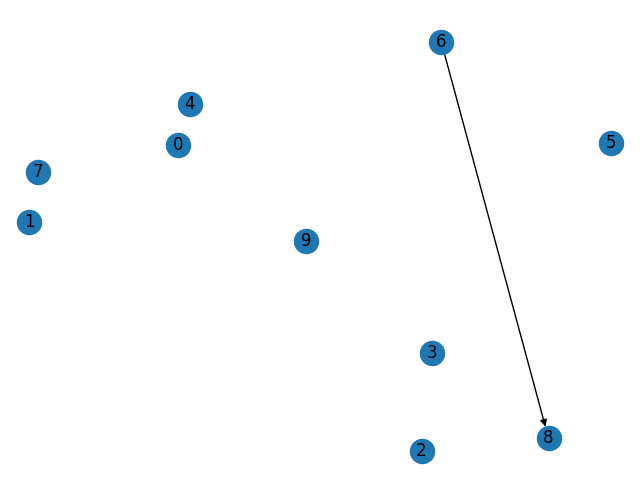
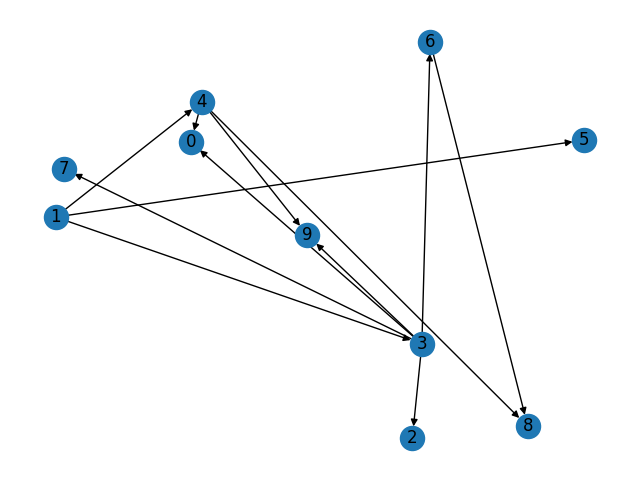
dijkstra added

diff --git a/GraphReader.py b/GraphReader.py
@@ -6,6 +6,83 @@ import sys
 from networkx.algorithms.cluster import average_clustering
 from networkx.classes.graph import Graph
 
+from collections import defaultdict
+ 
+class DijkstraGraph:
+    def __init__(self):
+        self.printArr = list()
+
+    def minDistance(self,dist,queue):
+        minimum = float("Inf")
+        min_index = -1
+         
+        for i in range(len(dist)):
+            if dist[i] < minimum and i in queue:
+                minimum = dist[i]
+                min_index = i
+        return min_index
+ 
+    def printPath(self, parent, j):
+         
+        if parent[j] == -1 :
+            self.printArr.append(j)
+            # print(j)
+            return
+        self.printPath(parent , parent[j])
+        self.printArr.append(j)
+        # print(j)
+         
+    def printSolution(self, dist, parent):
+        dijkstraNXG = nx.DiGraph()
+        temp_pos = nx.get_node_attributes(DG, 'pos')
+        for i in range(verts):
+            dijkstraNXG.add_node(i, pos = temp_pos)
+
+        src = starting
+        # print("Vertex \t\tDistance from Source\tPath")
+        for i in range(0, len(dist)):
+            if i != src:
+                # print("\n%d --> %d \t\t%f \t\t\t\t\t" % (src, i, dist[i]/10000000)),
+                self.printArr = list()
+                self.printPath(parent,i)
+
+                # self.printArr.reverse()
+                for j in range(1, len(self.printArr)):
+                    if not dijkstraNXG.has_edge(self.printArr[j-1], self.printArr[j]):
+                        dijkstraNXG.add_edge(self.printArr[j-1], self.printArr[j], weight = digraphMat[ self.printArr[j-1] ][ self.printArr[j] ]/10000000)
+
+        nx.draw(dijkstraNXG, temp_pos, with_labels=True)
+        plt.savefig("DijkstraGraph.png")
+        plt.close()
+
+    def dijkstra(self, graph, src):
+ 
+        row = len(graph)
+        col = len(graph[0])
+
+        dist = [float("Inf")] * row
+
+        parent = [-1] * row
+
+        dist[src] = 0
+     
+        queue = []
+        for i in range(row):
+            queue.append(i)
+             
+        while queue:
+
+            u = self.minDistance(dist,queue)
+            queue.remove(u)
+
+            for i in range(col):
+                if graph[u][i] and i in queue:
+                    if dist[u] + graph[u][i] < dist[i]:
+                        dist[i] = dist[u] + graph[u][i]
+                        parent[i] = u
+ 
+        self.printSolution(dist,parent)
+
 class FloydWarshall():
     def __init__(self, Vertices, graph):
         self.V = Vertices
@@ -359,7 +436,8 @@ def KruskalAlgo():
     return kruskalG.getTotalWeight()
 
 def DijkstraAlgo():
-    pass
+    dijkstraG = DijkstraGraph()
+    dijkstraG.dijkstra(digraphMat, starting)
 
 def BellmanFordAlgo():
     dist = [float('Inf')]*di_verts
@@ -376,24 +454,20 @@ def BellmanFordAlgo():
             if digraphMat[i][j] != 0:
                 cost_Mat[i][j] = digraphMat[i][j]/10000000
 
-    ShortestLastNodeDist_v = 0
-    ShortestLastNodeDist_u = 0
     for some in range(di_verts-1):
         for u in range(di_verts):
             for v in range(di_verts):
                 if cost_Mat[u][v] != float('Inf'):
                     if dist[u] != float('Inf') and dist[u] + cost_Mat[u][v] < dist[v]:
-                        # BellmanFordGraph.add_edge(u, v, weight = cost_Mat[u][v])
+                        BellmanFordGraph.add_edge(u, v, weight = cost_Mat[u][v])
                         dist[v] = dist[u] + cost_Mat[u][v]
-                        ShortestLastNodeDist_v = v
-                        ShortestLastNodeDist_u = u
-            
-        BellmanFordGraph.add_edge(ShortestLastNodeDist_u, ShortestLastNodeDist_v, weight = cost_Mat[ShortestLastNodeDist_u][ShortestLastNodeDist_v])
+                        
+    
 
     for u in range(di_verts):
         for v in range(di_verts):
             if dist[u] != float('Inf') and dist[u] + cost_Mat[u][v] < dist[v]:
-                print("Graph contains cycle bitch")
+                print("Graph contains cycle.")
                 return
 
     for i in range(di_verts):
@@ -589,5 +663,6 @@ def BoruvkaAlgo():
     plt.close()
 
 readInputFile("Input10.txt")
-# BellmanFordAlgo()
-BoruvkaAlgo()
+BellmanFordAlgo()
+# DijkstraAlgo()
+# BoruvkaAlgo()
